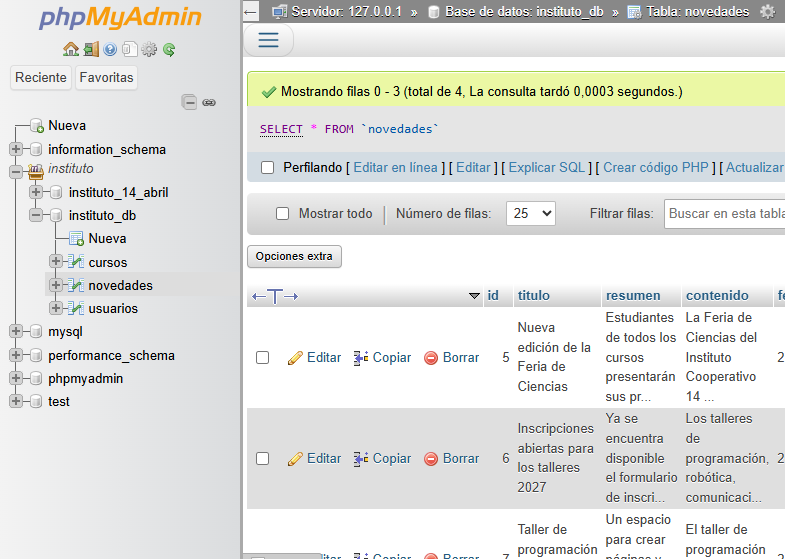
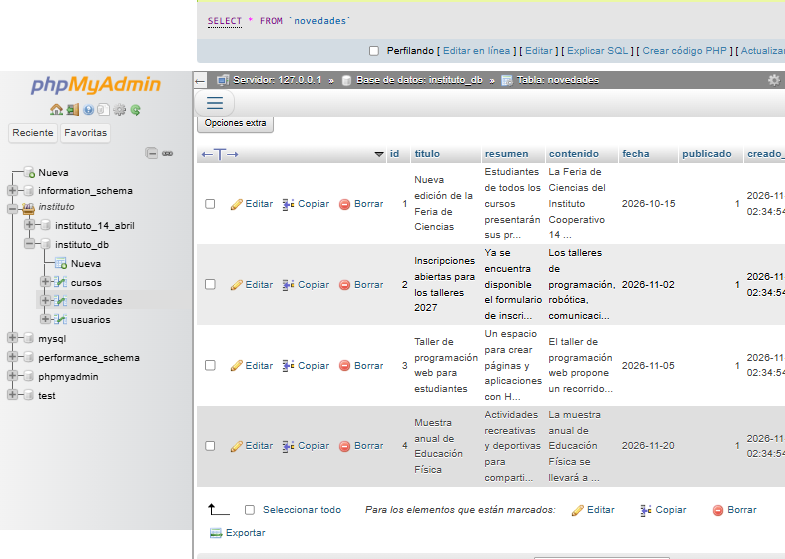
docs(tp10): fija los ids de ejemplo y actualiza capturas

diff --git a/Desktop/Fer/instituto-php/docs/tp10-pruebas.md b/Desktop/Fer/instituto-php/docs/tp10-pruebas.md
@@ -148,7 +148,7 @@ http://localhost/instituto-php/tp10/framework/public/
 | 1 | `php spark routes` | Muestra las 4 rutas configuradas. |
 | 2 | Abrir `/novedades` | `200`; 4 novedades ordenadas por fecha. Captura `08-framework-listado.png`. |
 | 3 | Buscar `?q=taller` | `200`; 2 coincidencias por título/contenido. |
-| 4 | Abrir `/novedades/8` | `200`; detalle completo. Captura `09-framework-detalle.png`. |
+| 4 | Abrir `/novedades/4` | `200`; detalle completo. Captura `09-framework-detalle.png`. |
 | 5 | Abrir `/api/novedades` | `200`; `Content-Type: application/json`; `count: 4`. Captura `10-framework-api-json.png`. |
 | 6 | Abrir `/novedades/9999` | `404` con la página de error del framework. |
 | 7 | Ver la tabla `novedades` en phpMyAdmin | 4 filas con título, resumen, contenido, fecha y estado. Captura `11-bd-novedades.png`. |
@@ -162,11 +162,11 @@ Ejemplo de respuesta del endpoint:
   "count": 4,
   "data": [
     {
-      "id": 8,
+      "id": 4,
       "titulo": "Muestra anual de Educación Física",
       "resumen": "Actividades recreativas y deportivas para compartir una jornada en comunidad.",
       "fecha": "2026-11-20",
-      "url": "http://localhost/instituto-php/tp10/framework/public/novedades/8"
+      "url": "http://localhost/instituto-php/tp10/framework/public/novedades/4"
     }
   ]
 }
@@ -211,7 +211,7 @@ php -l tp10/framework/app/Controllers/Novedades.php
 
 ## Capturas
 
-Las imágenes están en [`docs/capturas/tp10/`](capturas/tp10/).
+Las imágenes están en [`capturas/tp10/`](capturas/tp10/).
 
 1. [Listado nativo](capturas/tp10/01-nativo-listado.png)
 2. [Formulario de alta nativo](capturas/tp10/02-nativo-crear.png)

diff --git a/Desktop/Fer/instituto-php/README.md b/Desktop/Fer/instituto-php/README.md
@@ -391,7 +391,7 @@ Se creó el proyecto [`tp10/framework/`](tp10/framework/) con **CodeIgniter 4.7.
 |---|---|
 | `http://localhost/instituto-php/tp10/framework/public/` | Inicio del proyecto framework; muestra el módulo |
 | `http://localhost/instituto-php/tp10/framework/public/novedades` | Listado y búsqueda por `?q=` |
-| `http://localhost/instituto-php/tp10/framework/public/novedades/8` | Detalle de una novedad |
+| `http://localhost/instituto-php/tp10/framework/public/novedades/4` | Detalle de una novedad |
 | `http://localhost/instituto-php/tp10/framework/public/api/novedades` | Endpoint JSON con las novedades publicadas |
 
 El listado incluye búsqueda por título, resumen o contenido; el detalle usa un layout con `extend()`, `section()` y `endSection()`; el endpoint JSON responde con `status`, `count` y `data`.

diff --git a/Desktop/Fer/instituto-php/tp10/framework/README.md b/Desktop/Fer/instituto-php/tp10/framework/README.md
@@ -62,7 +62,7 @@ php -l app/Models/NovedadModel.php
 Abrir:
 
 - `http://localhost/instituto-php/tp10/framework/public/novedades`
-- `http://localhost/instituto-php/tp10/framework/public/novedades/8`
+- `http://localhost/instituto-php/tp10/framework/public/novedades/4`
 - `http://localhost/instituto-php/tp10/framework/public/api/novedades`
 
 El detalle de las pruebas y las capturas está en `../../docs/tp10-pruebas.md`.
